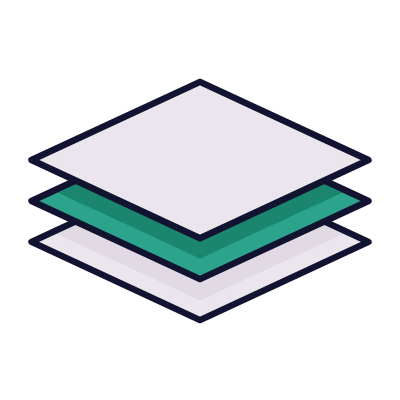
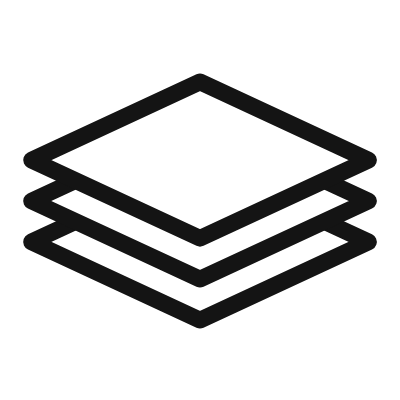
ajout de querlques regles css, animations, ...

diff --git a/src/components/featuresection/featuresection.jsx b/src/components/featuresection/featuresection.jsx
@@ -2,14 +2,18 @@ import { NavLink } from 'react-router-dom';
 import './featuresection.scss';
 import FadeInText from '../fadeintext/fadeintext';
 import { motion, useScroll, useTransform } from 'motion/react';
-import { useEffect, useRef, useState } from 'react';
+import { useRef, useState } from 'react';
 
 import layersAnimed from "../../assets/images/layers.gif"
 import layers from "../../assets/images/layers.png"
 import react from "../../assets/images/react.png"
-import device from "../../assets/images/device.png"
+import reactAnimed from "../../assets/images/react.gif"
+import responsive from "../../assets/images/responsive.png"
+import responsiveAnimed from "../../assets/images/responsive.gif"
 import animation from "../../assets/images/animation.png"
+import animationAnimed from "../../assets/images/animation.gif"
 import perf from "../../assets/images/perf.png"
+import perfAnimed from "../../assets/images/perf.gif"
 
 
 export default function FeatureSection() {
@@ -21,50 +25,37 @@ export default function FeatureSection() {
             text: "Création d’interfaces modernes, accessibles et maintenables avec les technologies web actuelles.",
             gif: layersAnimed,
             image: layers,
-            alt: "Ecran d'ordinateur avec ligne de code dans un éditeur de texte"
+            alt: "Icône représentant des couches empilées symbolisant la structure et l’organisation de composants ou de données."
         },
         {
             title: "React",
             text: "Développement d’applications dynamiques et performantes avec une architecture claire et scalable.",
+            gif: reactAnimed,
             image: react,
-            alt: "Logo stylisé de REACT"
+            alt: "Icône représentant du code informatique avec des chevrons, symbolisant le développement et la programmation."
         },
         {
             title: "Responsive design",
             text: "Interfaces pensées pour s’adapter parfaitement à tous les écrans, du mobile au desktop.",
-            image: device,
-            alt: "Illustration d'un interface sur mobile, tablette et grand écran"
+            gif: responsiveAnimed,
+            image: responsive,
+            alt: "Icône représentant un écran avec des flèches indiquant l’adaptation du contenu aux différentes tailles d’affichage"
         },
         {
             title: "Animations & interactions",
             text: "Création d’expériences fluides et engageantes grâce à des animations soignées et naturelles.",
+            gif: animationAnimed,
             image: animation,
-            alt: "Illustration d'un design UX"
+            alt: "Icône composée de trois carrés représentant des modules qui s'anime"
         },
         {
             title: "Performance web & SEO",
             text: "Optimisation des performances et du référencement pour des sites rapides et visibles.",
+            gif: perfAnimed,
             image: perf,
-            alt: "Illustration d'un écran d'ordinateur avec un compteur de performance"
+            alt: "Icône de flèche ascendante représentant la progression"
         }
     ];
-
-    const [pos, setPos] = useState({ x: 0, y: 0 })
-
-    useEffect(() => {
-        const handleMouseMove = (e) => {
-            setPos({
-                x: e.clientX,
-                y: e.clientY
-            })
-        }
-
-        globalThis.addEventListener("mousemove", handleMouseMove);
-
-        return () => {
-        globalThis.removeEventListener("mousemove", handleMouseMove);
-        };
-    }, [])
 
     const ref=useRef(null)
 
@@ -74,6 +65,14 @@ export default function FeatureSection() {
     })
 
     const x = useTransform(scrollYProgress, [0, 1], [-150, 0])
+
+    const cardHandleClick = (index) => {
+        if(index === activeCard){
+            setActiveCard(null)
+        } else {
+            setActiveCard(index)
+        }
+    }
 
     return(
         <section className='feature-section' ref={ref}>
@@ -95,14 +94,14 @@ export default function FeatureSection() {
                             <p>Animations, interactions et UI modernes. Chaque projet est une exploration.</p>
                         </div>
                         <div className='feature__link-wrapper'>
-                            <NavLink className='feature__link'>Découvrir <i className="fa-solid fa-arrow-right"></i></NavLink>
+                            <NavLink className='feature__link' to={'/projects'}>Découvrir <i className="fa-solid fa-arrow-right"></i></NavLink>
                         </div>
                     </motion.article>
                     {features.map((feature, index) => (
                         <button
                             className='feature__button' 
                             key={feature.title + index} 
-                            onClick={() => setActiveCard(index)}
+                            onClick={() => cardHandleClick(index)}
                         >
                             <article
                                 className={`feature${index === activeCard ? " feature--active" : ""}`}

diff --git a/src/components/projectslist/projectslist.jsx b/src/components/projectslist/projectslist.jsx
@@ -54,13 +54,18 @@ export default function ProjectsList({projects, selectedCategories, setSelectedC
                     transition={{ duration: 0.5 }}   
                 ></motion.div>
             </div>
-            <div className='projects-list__gallery'>
+            <motion.div 
+                className='projects-list__gallery'
+            >
                 {selectedCategories === "Tous" ? 
                     projects.map((project, index) => (
                         <motion.div 
                             key={project.id + index} 
                             className='projects-list__gallery-wrapper'
                             style={{ overflow: "hidden" }}
+                            initial={{ y: 100 }}
+                            whileInView={{ y: 0 }}
+                            transition={{ duration: 0.5}}
                         >
                             <motion.div 
                                 style={{ height: "100%" }}
@@ -84,7 +89,7 @@ export default function ProjectsList({projects, selectedCategories, setSelectedC
                         </div>
                     ))
                 }
-            </div>
+            </motion.div>
         </section>
     )
 }

diff --git a/src/components/animatedtext/animatedtext.jsx b/src/components/animatedtext/animatedtext.jsx
@@ -2,13 +2,13 @@ import { motion, useScroll, useTransform } from 'motion/react';
 import './animatedtext.scss';
 import { useRef } from 'react';
 
-export default function AnimatedText({ text }) {
+export default function AnimatedText({ text, finalColor, transitionColor }) {
     const words = text.split(" ");
     const textRef = useRef(null);
 
     const { scrollYProgress } = useScroll({
         target: textRef,
-        offset: ["start end", "end center"]
+        offset: ["start 80%", "end 20%"]
     });
 
     return(
@@ -18,7 +18,7 @@ export default function AnimatedText({ text }) {
                 const color = useTransform(
                     scrollYProgress,
                     [index / words.length, (index + 1) / words.length],
-                    ["#ffffff80", "#fafafa"]
+                    [transitionColor, finalColor]
                 );
 
                 return(

diff --git a/src/components/cta/cta.jsx b/src/components/cta/cta.jsx
@@ -17,9 +17,10 @@ export default function Cta({ to }) {
                     >
                         <AnimatedText 
                             text={'Curieux de découvrir mon univers en front-end ? Explorez mon parcours, mes compétences et la manière dont je conçois mes projets avec React, SCSS et un design minimaliste. De la création de portfolios aux sites vitrines, je partage ici mes réalisations récentes ainsi que les techniques et outils que j’ai utilisés pour les construire. Découvrez mon approche et laissez-vous guider à travers mon travail.'}
+                            transitionColor={"#fafafa80"}
+                            finalColor={"#fafafa"}
                         />
                     </motion.p>
-
                 </div>
                 <motion.div
                     initial={{ opacity: 0, y: 15 }}

diff --git a/src/components/hero/hero.scss b/src/components/hero/hero.scss
@@ -12,9 +12,9 @@
     &__content{
         display: flex;
         flex-direction: column;
-        gap: 1.5rem;
+        gap: 1rem;
         max-width: 800px;
-        padding-top: 1rem;
+        padding-top: 2rem;
 
         @media (max-width: 768px){
             transform: none !important;
@@ -33,7 +33,6 @@
 
         &-title{
             font-size: 2.5rem;
-            line-height: 100%;
             max-width: 550px;
 
             @media screen and (min-width:768px){
@@ -43,7 +42,7 @@
         }
 
         &-text{
-            line-height: 200%;
+            line-height: 150%;
         }
 
         &-link{

diff --git a/src/components/intro/intro.jsx b/src/components/intro/intro.jsx
@@ -28,7 +28,10 @@ export default function Intro({ project, sectionRef }) {
                 <div
                      className={'intro__content-wrapper'}
                 >
-                    <motion.div style={{ width }}>
+                    <motion.div 
+                        style={{ width }} 
+                        className='intro__content-transform'
+                    >
                         <motion.img 
                             className={'intro__content-image'} 
                             src={project.image} 

diff --git a/src/components/featuresection/featuresection.scss b/src/components/featuresection/featuresection.scss
@@ -47,6 +47,7 @@
     background: none;
     text-align: left;
     font-family: inherit;
+    padding: 0;
 }
 
 .feature{
@@ -77,10 +78,12 @@
         text-decoration: none;
         display: flex;
         align-items: center;
+        
         gap: 0.25rem;
 
         i{
             font-size: 0.6rem;
+            transform: translatey(0.08rem);
         }
     }
 

diff --git a/src/components/intro/intro.scss b/src/components/intro/intro.scss
@@ -12,6 +12,11 @@
         flex-direction: column;
         gap: 1rem;
 
+        &-transform{
+            height: 100%;
+            width: 100%;
+        }
+
         &-link{
             width: fit-content;
             color: inherit;

diff --git a/src/components/info/info.scss b/src/components/info/info.scss
@@ -77,6 +77,8 @@
             position: relative;
             font-size: 1.5rem;
             font-weight: 300;
+            text-transform: none;
+            line-height: 115%;
         }
 
         &-overlay{

diff --git a/src/index.scss b/src/index.scss
@@ -29,4 +29,6 @@ main{
 h1, h2, h3, h4{
     font-weight: 400;
     font-family: "Host Grotesk", sans-serif;
+    line-height: 100%;
+    text-transform: uppercase;
 }
